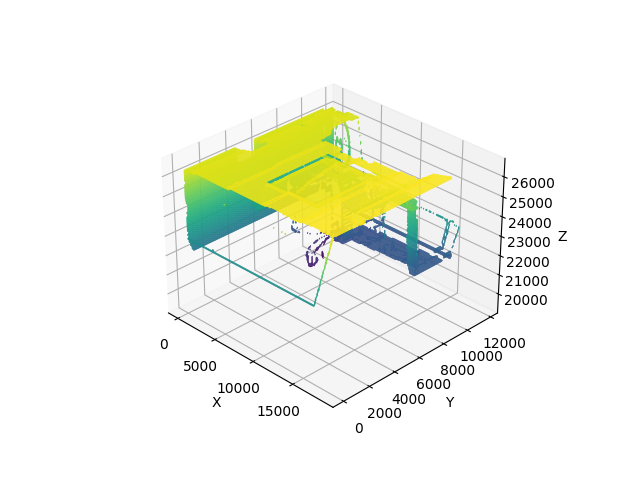
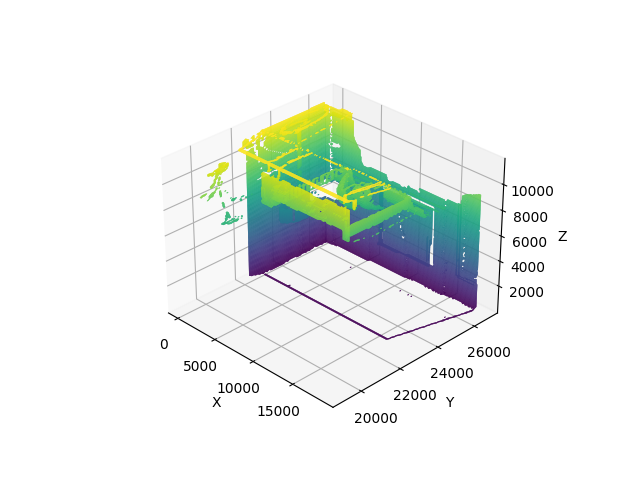
some slight visualization changes

diff --git a/psdf/visualizers.py b/psdf/visualizers.py
@@ -1,8 +1,6 @@
 import numpy as np
 import matplotlib.pyplot as plt
 from skimage import measure
-from mpl_toolkits.mplot3d.art3d import Poly3DCollection
-from matplotlib.animation import FuncAnimation
 
 def visualize_pointcloud(point_cloud, file="pointcloud.png"):
     fig = plt.figure()
@@ -23,13 +21,16 @@ def save_mesh_as_obj(vertices, faces, filename):
             f.write(f"f {face[0] + 1} {face[1] + 1} {face[2] + 1}\n")
     print(f"Saved mesh to {filename}")
 
+
 def plot_sdf(sdf, voxel_size, file="sdf.png", level=None):
     if level is None:
         level = np.min(sdf)
     verts, faces, _, _ = measure.marching_cubes(sdf, level=level)
     # Scale the vertices by the voxel size to get the correct coordinates
     verts *= voxel_size
+    # flip so the back wall is not at the top
     save_mesh_as_obj(verts, faces, file.replace(".png", ".obj"))
+    verts[:, [1, 2]] = verts[:, [2, 1]]
     # Create a 3D plot
     fig = plt.figure()
     ax = fig.add_subplot(111, projection='3d')
@@ -46,38 +47,16 @@ def plot_sdf(sdf, voxel_size, file="sdf.png", level=None):
     plt.savefig(file)
     plt.close()
 
-# ignore this for now
-def plot_elevation_map(elevation_map, x_values, y_values, file="map.png"):
+
+def plot_elevation_map(elevation_map, x_values, y_values, file="elevation_map.png"):
     X, Y = np.meshgrid(x_values, y_values)
+
+    # Create a copy of the elevation_map and swap Y and Z coordinates
+    elevation_map_swapped = elevation_map.copy()
+    elevation_map_swapped[:, [1, 2]] = elevation_map_swapped[:, [2, 1]]
+
     fig, ax = plt.subplots(subplot_kw={'projection': '3d'})
-    ax.plot_surface(X, Y, elevation_map, cmap='terrain')
+    ax.plot_surface(X, Y, elevation_map_swapped, cmap='terrain')
     ax.set_title('Elevation Map')
     plt.savefig(file)
 
-def plot_esdf_mesh(esdf, level=None):
-    if level is None:
-        level = np.min(esdf)
-    # Extract the isosurface using the Marching Cubes algorithm
-    verts, faces, _, _ = measure.marching_cubes(esdf, level=level)
-
-    # Create a 3D plot
-    fig = plt.figure(figsize=(10, 10))
-    ax = fig.add_subplot(111, projection='3d')
-
-    # Add the mesh to the plot
-    mesh = Poly3DCollection(verts[faces])
-    mesh.set_edgecolor('k')
-    ax.add_collection3d(mesh)
-
-    # Set the plot limits
-    ax.set_xlim(0, esdf.shape[0])
-    ax.set_ylim(0, esdf.shape[1])
-    ax.set_zlim(0, esdf.shape[2])
-
-    # Set the axis labels
-    ax.set_xlabel("X")
-    ax.set_ylabel("Y")
-    ax.set_zlabel("Z")
-
-    # Display the plot
-    plt.savefig("esdf.png")

diff --git a/psdf/sdf.py b/psdf/sdf.py
@@ -71,22 +71,6 @@ def compute_tsdf(sdf, truncation_limit):
     return tsdf
 
 
-def sdf_to_elevation_map(global_sdf, voxel_size, origin, min_voxel_indices, index_offset):
-    surface_points = np.argwhere(np.abs(global_sdf) < voxel_size)
-    surface_points = surface_points - index_offset + min_voxel_indices
-    surface_points = surface_points * voxel_size + origin
-
-    # Project the surface points onto a 2D grid
-    x_values, y_values = np.unique(surface_points[:, 0]), np.unique(surface_points[:, 1])
-    xi = np.searchsorted(x_values, surface_points[:, 0])
-    yi = np.searchsorted(y_values, surface_points[:, 1])
-
-    elevation_map = np.zeros((y_values.size, x_values.size), dtype=np.float32)
-    elevation_map[yi, xi] = surface_points[:, 2]
-
-    return elevation_map, x_values, y_values
-
-
 def find_isovalue(tsdf):
     # Compute the histogram of TSDF values
     hist, bins = np.histogram(tsdf.flatten(), bins=100, range=(-1, 1))
@@ -106,6 +90,7 @@ def find_isovalue(tsdf):
 
     return isovalue
 
+
 def compute_esdf(tsdf, voxel_size):
     # Threshold the TSDF to obtain binary masks for occupied and free voxels
     occupied_mask = tsdf < 0
@@ -120,7 +105,24 @@ def compute_esdf(tsdf, voxel_size):
 
     return esdf
 
+
 def update_sdf_volumes(sdf_volume, sdf, voxel_indices):
     for i, idx in enumerate(voxel_indices):
         sdf_volume[tuple(idx)] += sdf[i]
     return sdf_volume
+
+
+def esdf_to_elevation_map(esdf, voxel_size, origin):
+    all_points = np.argwhere(esdf != np.inf)
+    all_points = all_points * voxel_size + origin
+    print(f"esdf: {esdf}, points: {all_points}")
+
+    # Project the points onto a 2D grid
+    x_values, y_values = np.unique(all_points[:, 0]), np.unique(all_points[:, 1])
+    xi = np.searchsorted(x_values, all_points[:, 0])
+    yi = np.searchsorted(y_values, all_points[:, 1])
+
+    elevation_map = np.zeros((y_values.size, x_values.size), dtype=np.float32)
+    elevation_map[yi, xi] = all_points[:, 2]
+    print(f"Length: {len(set(elevation_map.flatten()))}")
+    return elevation_map, x_values, y_values

diff --git a/main.py b/main.py
@@ -1,9 +1,7 @@
 import numpy as np
-import open3d as o3d
 from psdf.data_loader import load_ground_truth_poses, load_images, preprocess_images
 from psdf.sdf import *
-from psdf.visualizers import plot_sdf, plot_elevation_map, plot_esdf_mesh
-from psdf.helpers import compare_sdf_tsdf
+from psdf.visualizers import plot_sdf, plot_elevation_map
 from tqdm import tqdm
 
 
@@ -20,7 +18,7 @@ def main():
     sdfs, point_clouds, min_voxel_indices, max_voxel_indices = compute_sdfs(poses, image_dir, camera_intrinsics, grid_origin, voxel_size)
 
     grid_shape = tuple((max_voxel_indices - min_voxel_indices + 300).astype(int))
-    offset = np.abs(min_voxel_indices).astype(int) + 1  # offset to make all values positive
+    offset = np.abs(min_voxel_indices).astype(int) + 1
     sdf_volume = initialize_sdf_volumes(grid_shape)
     sdf_volume = update_all_sdf_volumes(sdf_volume, sdfs, offset)
     tsdf = compute_tsdf(sdf_volume, voxel_size)
@@ -30,7 +28,10 @@ def main():
     plot_sdf(tsdf, voxel_size, file="tsdf.png", level=isovalue_tsdf)
     plot_sdf(sdf_volume, voxel_size, file="sdf_final.png", level=isovalue_sdf)
     plot_sdf(esdf, voxel_size, file="esdf.png", level=0)
-    compare_sdf_tsdf(sdf_volume, tsdf)
+    # elevation_map, x_values, y_values = esdf_to_elevation_map(esdf, voxel_size, grid_origin)
+    # print(elevation_map)
+    # plot_elevation_map(elevation_map, x_values, y_values, file="elevation_map.png")
+
 
 def compute_sdfs(poses, image_dir, camera_intrinsics, grid_origin, voxel_size):
     sdfs = []
